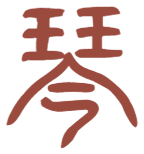
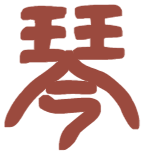
琴/茶/和图标外框和字都加粗
圆形描边从 1.4px 加到 2.2px；字的部分用形态学膨胀（每个像素取周围 2px 半径内
最深的墨色）重新抠图上色，笔画整体变粗但字形不变。

Changed region(s): [[0.0278, 0.026, 0.9722, 0.987]]

diff --git a/admin.html b/admin.html
@@ -561,7 +561,7 @@
   /* 圆形线条框 + 手写小篆字的资源标记：琴/茶/和，日历表头、"添加行程"资源选择、"两者都占"事件条都用这个 */
   .res-badge {
     display: inline-flex; align-items: center; justify-content: center; flex-shrink: 0;
-    width: 22px; height: 22px; border-radius: 50%; border: 1.4px solid currentColor; overflow: hidden;
+    width: 22px; height: 22px; border-radius: 50%; border: 2.2px solid currentColor; overflow: hidden;
   }
   .res-badge img { width: 68%; height: 68%; object-fit: contain; display: block; }
   .res-badge.guqin { color: var(--red); }
